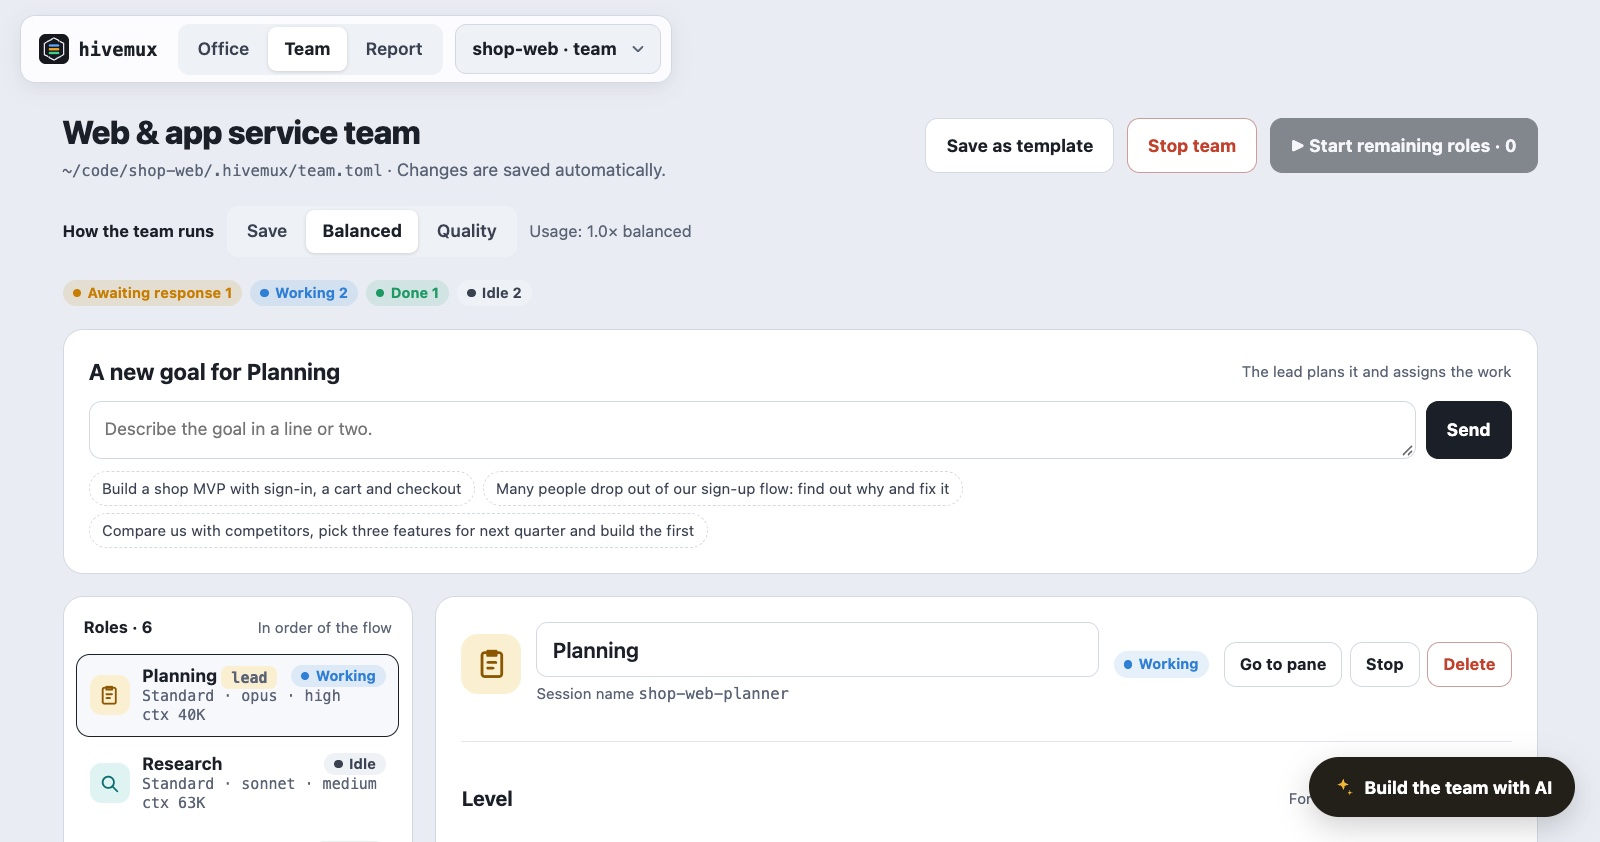
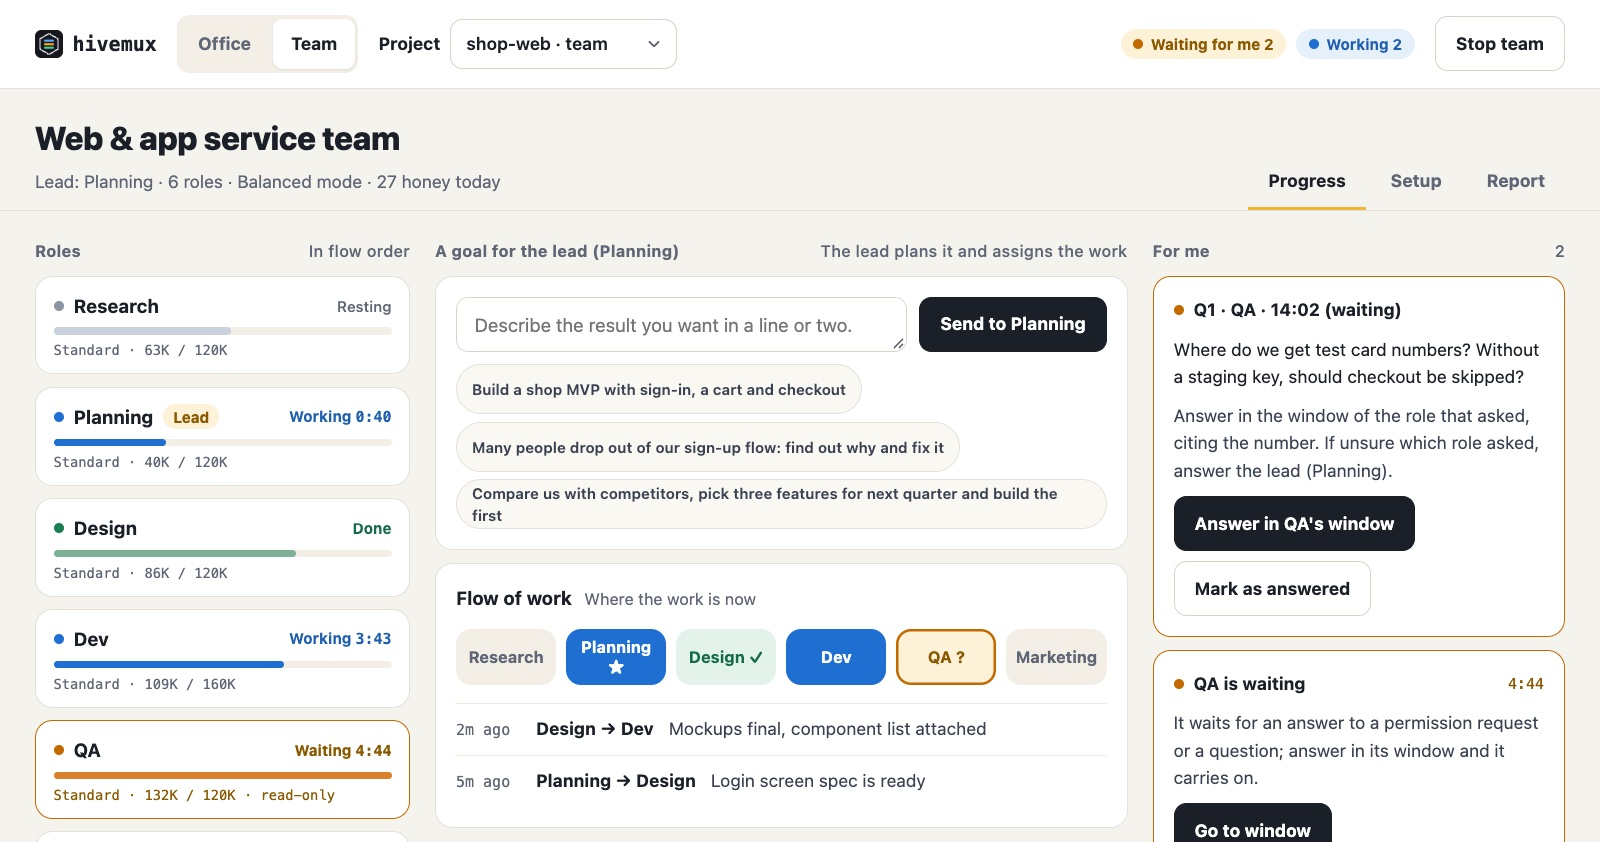
Team page images in the new look; a long role name in the flow wraps instead of being cut off
Claude-Session: https://claude.ai/code/session_015AHYAgHuVukZzcWQ22tdwW

diff --git a/share/office/team.html b/share/office/team.html
@@ -150,7 +150,7 @@ main { max-width: 1440px; margin: 0 auto; padding: 22px 28px 40px; }
 .ch { display: flex; align-items: baseline; gap: 10px; flex-wrap: wrap; } .ch b { font-size: 15px; } .ch span { font-size: 13px; color: var(--muted); }
 .steps { list-style: none; margin: 0; padding: 0; display: grid; grid-template-columns: repeat(var(--n, 6), minmax(0, 1fr)); gap: 8px; }
 @media (max-width: 760px) { .steps { grid-template-columns: repeat(auto-fill, minmax(92px, 1fr)); } }
-.steps li { text-align: center; padding: 12px 6px; border-radius: 12px; font-size: 13px; font-weight: 700; background: var(--soft2); color: var(--muted); overflow: hidden; text-overflow: ellipsis; white-space: nowrap; }
+.steps li { display: flex; align-items: center; justify-content: center; min-height: 44px; box-sizing: border-box; text-align: center; padding: 6px; border-radius: 12px; font-size: 13px; line-height: 1.25; font-weight: 700; background: var(--soft2); color: var(--muted); overflow-wrap: break-word; min-width: 0; }
 .steps li.run { background: var(--run-solid); color: #fff; }
 .steps li.done { background: var(--done-bg); color: var(--done-fg); }
 .steps li.wait { background: var(--wait-bg); color: var(--wait-fg); box-shadow: inset 0 0 0 2px var(--wait); }

diff --git a/README.md b/README.md
@@ -93,7 +93,7 @@ macOS and Linux (on Linux, `Option` is `Alt`).
 ## Teams
 
 <p align="center">
-  <img src="docs/office/team-en.jpg" alt="The team page: a web &amp; app team's roles with their level, state and context, and the box for the lead's next goal" width="880">
+  <img src="docs/office/team-en.jpg" alt="The hivemux team page on its Progress tab: a web and app team&#39;s roles in flow order with their state and context, the box for the lead&#39;s next goal, the flow of work and the questions waiting for you" width="880">
 </p>
 
 A team is a few Claudes with roles in one project, each in its own window,

diff --git a/CHANGELOG.md b/CHANGELOG.md
@@ -2,6 +2,8 @@
 
 ## Unreleased
 
+- Team page: a long role name in the flow of work wraps onto a second line instead of being cut off.
+
 ## 0.1.65 — 2026-11-17
 
 - Team page: a new look on warm paper, with three tabs under the team's name: Progress (the roles
